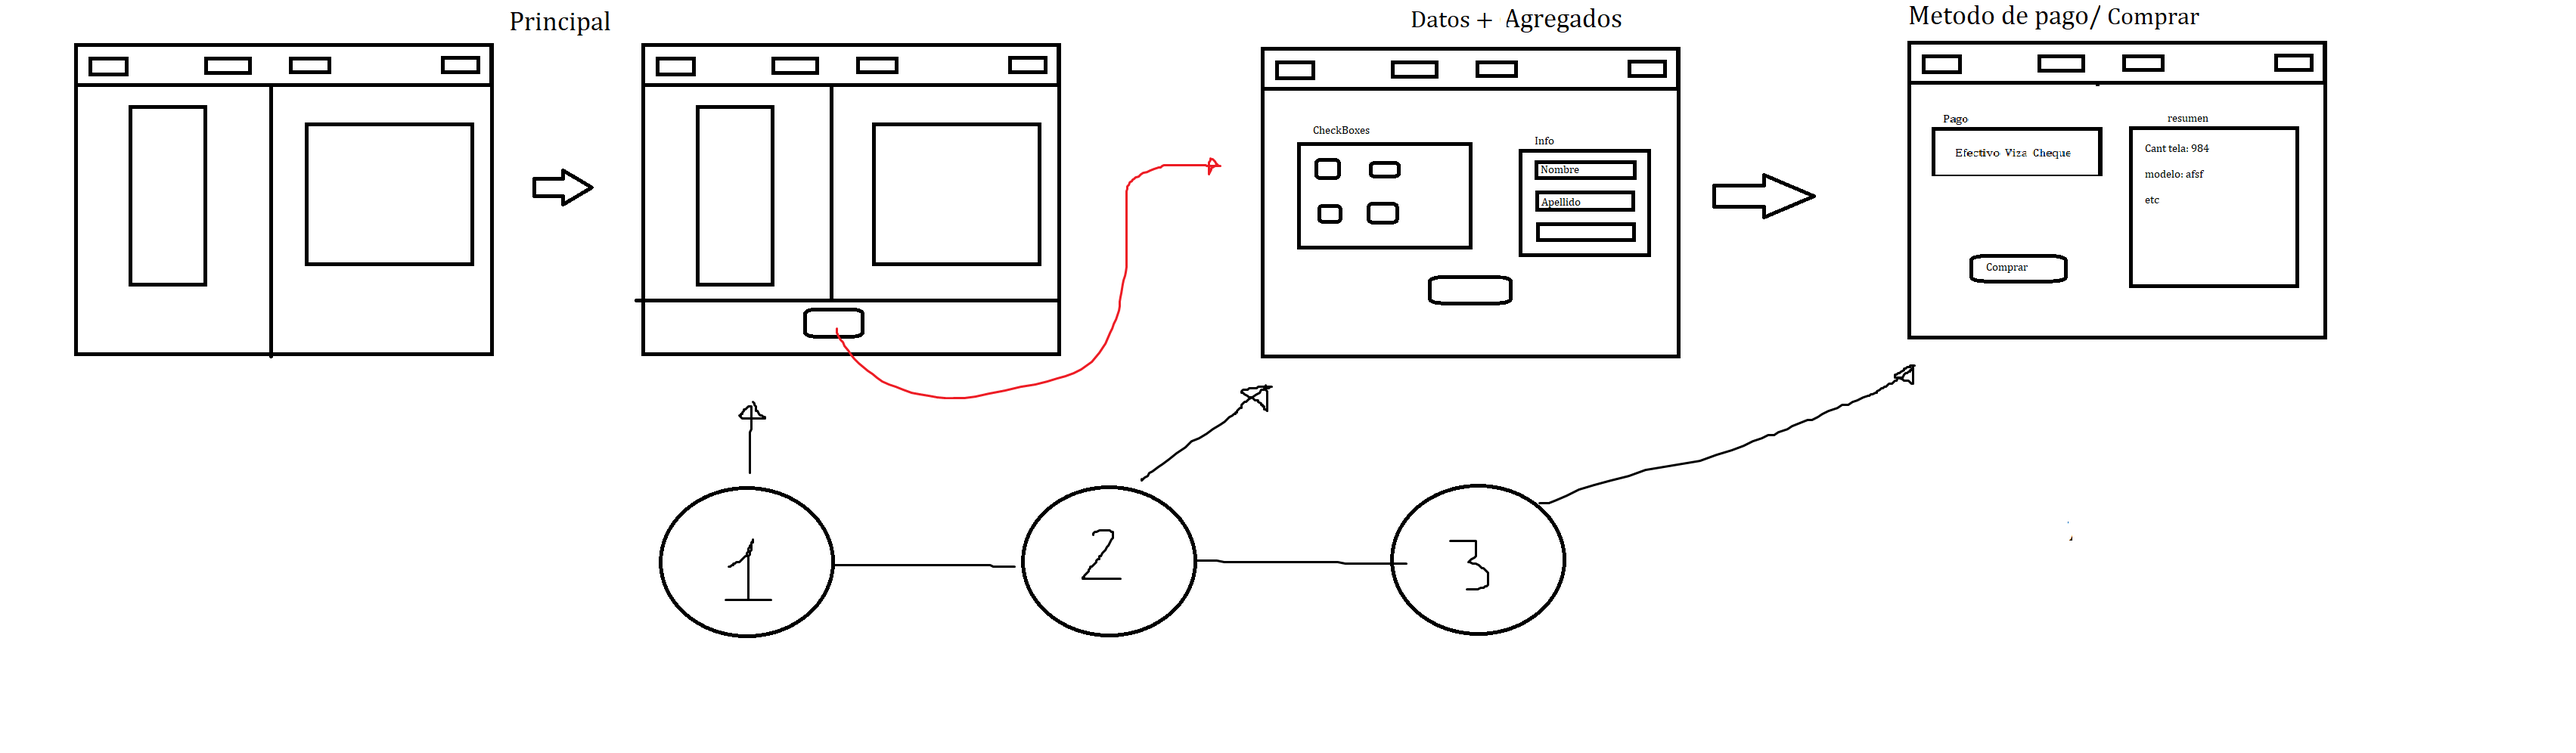
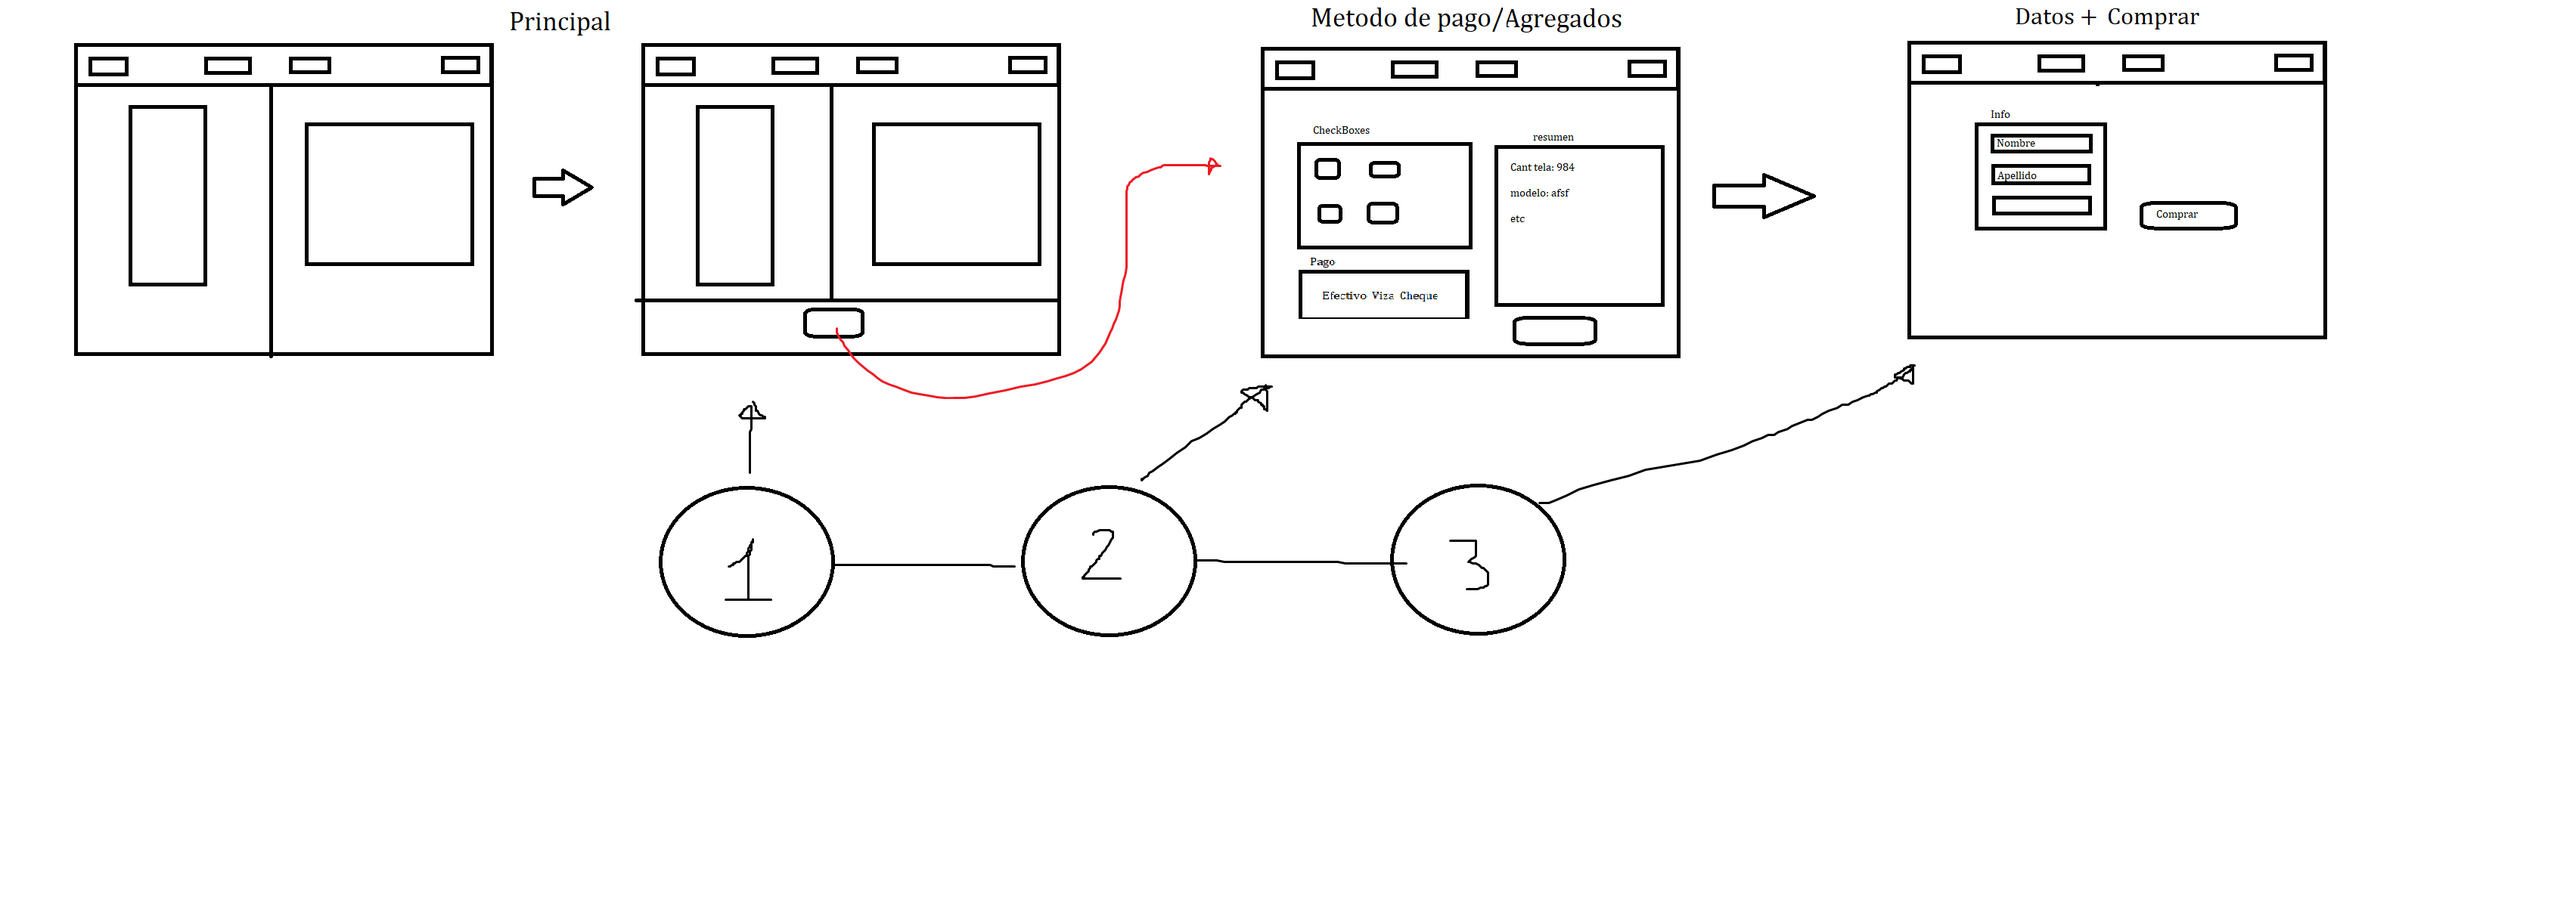
un poco de step2

diff --git a/client/src/CheckExtras.js b/client/src/CheckExtras.js
@@ -1,0 +1,53 @@
+const CheckExtras = props => {
+
+const Extras = [
+    {nombre:"Extra 1", valor:100},
+    {nombre:"Extra 2", valor:200},
+    {nombre:"Extra 3", valor:300},
+    {nombre:"Extra 4", valor:400},
+];
+const {
+    Check,
+    setCheck,
+    setChecked
+    }  = props;
+
+const handleChange = e => {
+    console.log("Name  = "+ e.target.value);
+    console.log("Value = "+ e.target.dataset.valor);
+}
+
+return(
+    
+    <>
+
+<table>
+    <thead>
+        <tr>
+            <th>Extra</th>
+            <th></th>
+        </tr>
+    </thead>
+    <tbody>
+        <tr>
+            {Extras.map((m,i) => (
+                <tr>
+                    <td><label htmlFor="">{m.nombre}</label></td>
+                    <td>
+                    <input type="checkbox"             
+                            onChange={handleChange}
+                            value={m.nombre}
+                            data-valor={m.valor}
+                            checked={Check === m.nombre ? true : false} /></td>
+                </tr>
+            ))}
+        </tr>
+    </tbody>
+</table>
+
+
+</>
+);
+}
+
+export default CheckExtras;

diff --git a/client/src/Step2.js b/client/src/Step2.js
@@ -1,6 +1,7 @@
 import Navbar from './Navbar';
 import Footer from "./Footer"
 import Form2Comprar from './Form2comprar';
+import CheckExtras from './CheckExtras';
 
 
 const Step2 = props =>{
@@ -19,7 +20,7 @@ return(
     precTotal={precTotal}
     />
 
-
+<CheckExtras/>
 <Footer/>
 </>
 );

diff --git a/client/src/Admin.js b/client/src/Admin.js
@@ -37,7 +37,13 @@ const Admin = () => {
       .catch(err => console.log(err))
   };
 
-  const estilo = { textDecoration: 'line-through', };
+  const estilo = {
+    textDecoration: 'line-through',
+    color:"yellow"
+/*     backgroundColor: "black" */
+
+  }
+;
 
   return (
     <>
